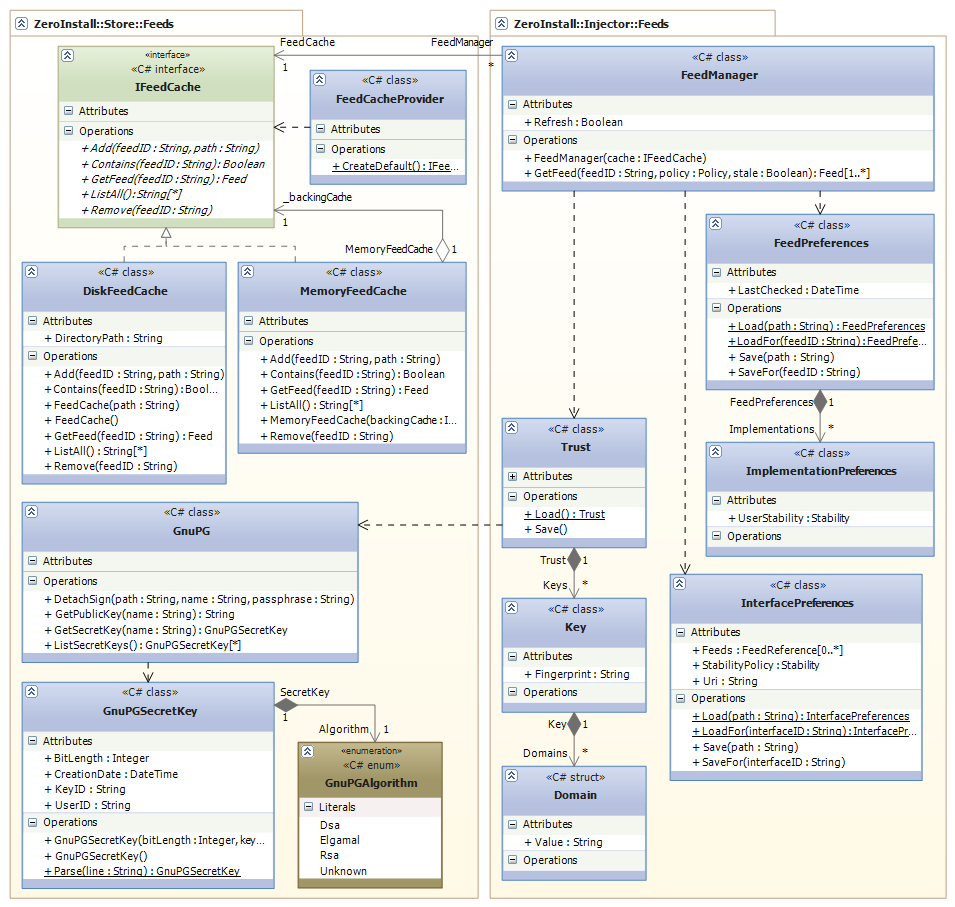
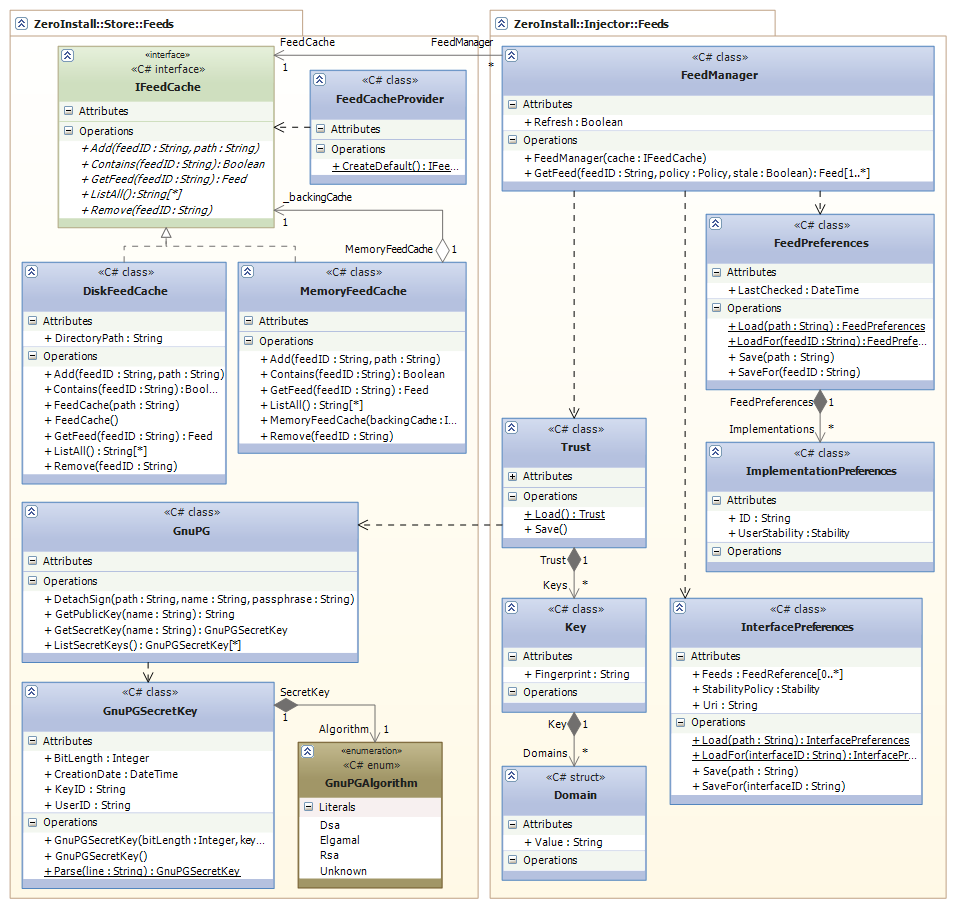
- Improved InterfacePreferences and FeedPreferences (exception handling, lookup by feed ID, ...) - Added SelectionCandidate.IsCompatible flag

Changed region(s): [[0.6984, 0.5557, 1.0, 0.8953]]

diff --git a/src/Injector/Feeds/FeedPreferences.cs b/src/Injector/Feeds/FeedPreferences.cs
@@ -20,7 +20,6 @@ using System.ComponentModel;
 using System.Diagnostics.CodeAnalysis;
 using System.IO;
 using System.Xml.Serialization;
-using Common;
 using Common.Collections;
 using Common.Storage;
 using Common.Utils;
@@ -34,7 +33,7 @@ namespace ZeroInstall.Injector.Feeds
     [SuppressMessage("Microsoft.Design", "CA1001:TypesThatOwnDisposableFieldsShouldBeDisposable", Justification = "C5 collections don't need to be disposed.")]
     [XmlRoot("feed-preferences", Namespace = Feed.XmlNamespace)]
     [XmlType("feed-preferences", Namespace = Feed.XmlNamespace)]
-    public sealed class FeedPreferences : XmlUnknown, ICloneable
+    public sealed class FeedPreferences : XmlUnknown, ISimplifyable, ICloneable
     {
         #region Properties
         /// <summary>
@@ -66,6 +65,34 @@ namespace ZeroInstall.Injector.Feeds
 
         //--------------------//
 
+        #region Access
+        /// <summary>
+        /// Retreives an existing entry from <see cref="Implementations"/> by ID or creates a new one if no appropriate one exists.
+        /// </summary>
+        /// <param name="id">The <see cref="ImplementationPreferences.ID"/> to search for.</param>
+        /// <returns>The found or newly created <see cref="ImplementationPreferences"/>.</returns>
+        public ImplementationPreferences GetImplementationPreferences(string id)
+        {
+            ImplementationPreferences result;
+            if (!Implementations.Find(implementation => implementation.ID == id, out result))
+            {
+                result = new ImplementationPreferences {ID = id};
+                Implementations.Add(result);
+            }
+            return result;
+        }
+        #endregion
+
+        #region Simplify
+        /// <summary>
+        /// Removes superflous entries from <see cref="Implementations"/>.
+        /// </summary>
+        public void Simplify()
+        {
+            _implementations.RemoveAll(_implementations.FindAll(implementation => implementation.IsSuperflous));
+        }
+        #endregion
+
         #region Storage
         /// <summary>
         /// Loads <see cref="FeedPreferences"/> from an XML file.
@@ -85,20 +112,19 @@ namespace ZeroInstall.Injector.Feeds
         /// </summary>
         /// <param name="feedID">The feed to load the preferences for.</param>
         /// <returns>The loaded <see cref="FeedPreferences"/>.</returns>
+        /// <exception cref="IOException">Thrown if a problem occurs while reading the file.</exception>
+        /// <exception cref="UnauthorizedAccessException">Thrown if read access to the file is not permitted.</exception>
+        /// <exception cref="InvalidOperationException">Thrown if a problem occurs while deserializing the XML data.</exception>
         public static FeedPreferences LoadFor(string feedID)
         {
+            #region Sanity checks
+            if (string.IsNullOrEmpty(feedID)) throw new ArgumentNullException("feedID");
+            #endregion
+
             var path = EnumerableUtils.GetFirst(Locations.GetLoadConfigPaths("0install.net", FileUtils.PathCombine("injector", "feeds", ModelUtils.PrettyEscape(feedID)), false));
             if (string.IsNullOrEmpty(path)) return new FeedPreferences();
 
-            try { return XmlStorage.Load<FeedPreferences>(path); }
-            #region Error handling
-            catch (Exception ex)
-            {
-                Log.Warn("Failed to load preferences for feed '" + feedID + "'\n" + ex.Message);
-                Log.Warn("Reverting to default values");
-                return new FeedPreferences();
-            }
-            #endregion
+            return XmlStorage.Load<FeedPreferences>(path);
         }
 
         /// <summary>

diff --git a/src/Injector/Feeds/ImplementationPreferences.cs b/src/Injector/Feeds/ImplementationPreferences.cs
@@ -28,6 +28,13 @@ namespace ZeroInstall.Injector.Feeds
     public sealed class ImplementationPreferences : XmlUnknown
     {
         #region Properties
+        /// <summary>
+        /// A unique identifier for the implementation. Coressponds to <see cref="ImplementationBase.ID"/>.
+        /// </summary>
+        [Description("A unique identifier for the implementation.")]
+        [XmlAttribute("id")]
+        public string ID { get; set; }
+
         private Stability _userStability = Stability.Unset;
         /// <summary>
         /// A user-specified override for <see cref="Element.Stability"/> specified in the feed.
@@ -35,6 +42,16 @@ namespace ZeroInstall.Injector.Feeds
         [Description("A user-specified override for the implementation stability specified in the feed.")]
         [XmlAttribute("user-stability"), DefaultValue(typeof(Stability), "Unset")]
         public Stability UserStability { get { return _userStability; } set { _userStability = value; } }
+
+        /// <summary>
+        /// Indicates whether this configuration object stores no information other than the <see cref="ID"/> and is thus superflous.
+        /// </summary>
+        [Browsable(false)]
+        [XmlIgnore]
+        public bool IsSuperflous
+        {
+            get { return UserStability == Stability.Unset; }
+        }
         #endregion
 
         //--------------------//
@@ -46,7 +63,7 @@ namespace ZeroInstall.Injector.Feeds
         /// <returns>The new copy of the <see cref="ImplementationPreferences"/>.</returns>
         public ImplementationPreferences CloneImplementationPreferences()
         {
-            var feedPreferences = new ImplementationPreferences {UserStability = UserStability};
+            var feedPreferences = new ImplementationPreferences {ID = ID, UserStability = UserStability};
 
             return feedPreferences;
         }
@@ -63,11 +80,11 @@ namespace ZeroInstall.Injector.Feeds
 
         #region Conversion
         /// <summary>
-        /// Returns the preferences in the form "ImplementationPreferences: UserStability". Not safe for parsing!
+        /// Returns the preferences in the form "ImplementationPreferences: ID". Not safe for parsing!
         /// </summary>
         public override string ToString()
         {
-            return string.Format("ImplementationPreferences: {0}", UserStability);
+            return string.Format("ImplementationPreferences: {0}", ID);
         }
         #endregion
 
@@ -77,7 +94,7 @@ namespace ZeroInstall.Injector.Feeds
         {
             if (other == null) return false;
 
-            return UserStability == other.UserStability;
+            return ID == other.ID && UserStability == other.UserStability;
         }
 
         /// <inheritdoc/>
@@ -93,7 +110,9 @@ namespace ZeroInstall.Injector.Feeds
         {
             unchecked
             {
-                return UserStability.GetHashCode();
+                int result = (ID ?? "").GetHashCode();
+                result = (result * 397) ^ UserStability.GetHashCode();
+                return result;
             }
         }
         #endregion

diff --git a/src/Test.Backend/Injector/Feeds/FeedPreferencesTest.cs b/src/Test.Backend/Injector/Feeds/FeedPreferencesTest.cs
@@ -37,7 +37,7 @@ namespace ZeroInstall.Injector.Feeds
             return new FeedPreferences
             {
                 LastChecked = new DateTime(2000, 1, 1),
-                Implementations = { new ImplementationPreferences { UserStability = Stability.Testing } }
+                Implementations = { new ImplementationPreferences { ID = "test_id", UserStability = Stability.Testing } }
             };
         }
         #endregion
@@ -69,6 +69,34 @@ namespace ZeroInstall.Injector.Feeds
             Assert.AreEqual(preferences1, preferences2, "Cloned objects should be equal.");
             Assert.AreEqual(preferences1.GetHashCode(), preferences2.GetHashCode(), "Cloned objects' hashes should be equal.");
             Assert.IsFalse(ReferenceEquals(preferences1, preferences2), "Cloning should not return the same reference.");
+        }
+
+        /// <summary>
+        /// Ensures that <see cref="FeedPreferences.Simplify"/> correctly superflous entries in <see cref="FeedPreferences.Implementations"/>.
+        /// </summary>
+        [Test]
+        public void TestSimplify()
+        {
+            var keep = new ImplementationPreferences {ID = "id1", UserStability = Stability.Testing};
+            var superflous = new ImplementationPreferences {ID = "id2"};
+            var preferences = new FeedPreferences {Implementations = {keep, superflous}};
+
+            preferences.Simplify();
+            CollectionAssert.AreEquivalent(new[] {keep}, preferences.Implementations);
+        }
+
+        [Test]
+        public void TestGetImplementationPreferences()
+        {
+            var preferences = new FeedPreferences();
+            var prefs1 = preferences.GetImplementationPreferences("id1");
+            Assert.AreSame(prefs1, preferences.GetImplementationPreferences("id1"), "Second call with same ID should return same reference");
+
+            var prefs2 = new ImplementationPreferences {ID = "id2"};
+            preferences.Implementations.Add(prefs2);
+            Assert.AreSame(prefs2, preferences.GetImplementationPreferences("id2"), "Call with pre-existing ID should return existing reference");
+
+            CollectionAssert.AreEquivalent(new[] {prefs1, prefs2}, preferences.Implementations);
         }
     }
 }

diff --git a/src/Injector/Feeds/InterfacePreferences.cs b/src/Injector/Feeds/InterfacePreferences.cs
@@ -94,20 +94,19 @@ namespace ZeroInstall.Injector.Feeds
         /// </summary>
         /// <param name="interfaceID">The interface to load the preferences for.</param>
         /// <returns>The loaded <see cref="InterfacePreferences"/>.</returns>
+        /// <exception cref="IOException">Thrown if a problem occurs while reading the file.</exception>
+        /// <exception cref="UnauthorizedAccessException">Thrown if read access to the file is not permitted.</exception>
+        /// <exception cref="InvalidOperationException">Thrown if a problem occurs while deserializing the XML data.</exception>
         public static InterfacePreferences LoadFor(string interfaceID)
         {
+            #region Sanity checks
+            if (string.IsNullOrEmpty(interfaceID)) throw new ArgumentNullException("interfaceID");
+            #endregion
+
             var path = EnumerableUtils.GetFirst(Locations.GetLoadConfigPaths("0install.net", FileUtils.PathCombine("injector", "interfaces", ModelUtils.PrettyEscape(interfaceID)), false));
             if (string.IsNullOrEmpty(path)) return new InterfacePreferences();
 
-            try { return XmlStorage.Load<InterfacePreferences>(path); }
-            #region Error handling
-            catch(Exception ex)
-            {
-                Log.Warn("Failed to load preferences for interface '" + interfaceID + "'\n" + ex.Message);
-                Log.Warn("Reverting to default values");
-                return new InterfacePreferences();
-            }
-            #endregion
+            return XmlStorage.Load<InterfacePreferences>(path);
         }
 
         /// <summary>

diff --git a/src/Injector/Solver/SelectionCandidate.cs b/src/Injector/Solver/SelectionCandidate.cs
@@ -81,6 +81,12 @@ namespace ZeroInstall.Injector.Solver
         /// </summary>
         [Description("Human-readable notes about the implementation, e.g. \"not suitable for this architecture\".")]
         public string Notes { get; private set; }
+
+        /// <summary>
+        /// Indicates wether this implementation can be executed on the current system.
+        /// </summary>
+        [Browsable(false)]
+        public bool IsCompatible { get; private set; }
         #endregion
 
         #region Constructor
@@ -92,9 +98,16 @@ namespace ZeroInstall.Injector.Solver
         /// <param name="implementationPreferences">The preferences controlling how the <see cref="ISolver"/> evaluates this candidate.</param>
         public SelectionCandidate(string feedID, Implementation implementation, ImplementationPreferences implementationPreferences)
         {
+            #region Sanity checks
+            if (string.IsNullOrEmpty(feedID)) throw new ArgumentNullException("feedID");
+            if (implementation == null) throw new ArgumentNullException("implementation");
+            if (implementationPreferences == null) throw new ArgumentNullException("implementationPreferences");
+            #endregion
+
             FeedID = feedID;
             _implementation = implementation;
             _implementationPreferences = implementationPreferences;
+            IsCompatible = implementation.Architecture.IsCompatible(Model.Architecture.CurrentSystem);
             Notes = GetNotes();
         }
 

diff --git a/src/Injector/Feeds/FeedManager.cs b/src/Injector/Feeds/FeedManager.cs
@@ -18,6 +18,7 @@
 using System;
 using System.IO;
 using System.Net;
+using Common;
 using ZeroInstall.Injector.Properties;
 using ZeroInstall.Store.Feeds;
 
@@ -84,7 +85,25 @@ namespace ZeroInstall.Injector.Feeds
             if (policy == null) throw new ArgumentNullException("policy");
             #endregion
 
-            var preferences = FeedPreferences.LoadFor(feedID);
+            FeedPreferences preferences;
+            try { preferences = FeedPreferences.LoadFor(feedID); }
+            #region Error handling
+            catch (IOException ex)
+            {
+                Log.Error("Error loading feed preferences for '" + feedID + "':\n" + ex.Message);
+                preferences = new FeedPreferences();
+            }
+            catch (UnauthorizedAccessException ex)
+            {
+                Log.Error("Error loading feed preferences for '" + feedID + "':\n" + ex.Message);
+                preferences = new FeedPreferences();
+            }
+            catch (InvalidOperationException ex)
+            {
+                Log.Error("Error loading feed preferences for '" + feedID + "':\n" + ex.Message);
+                preferences = new FeedPreferences();
+            }
+            #endregion
 
             if (Refresh)
             {
